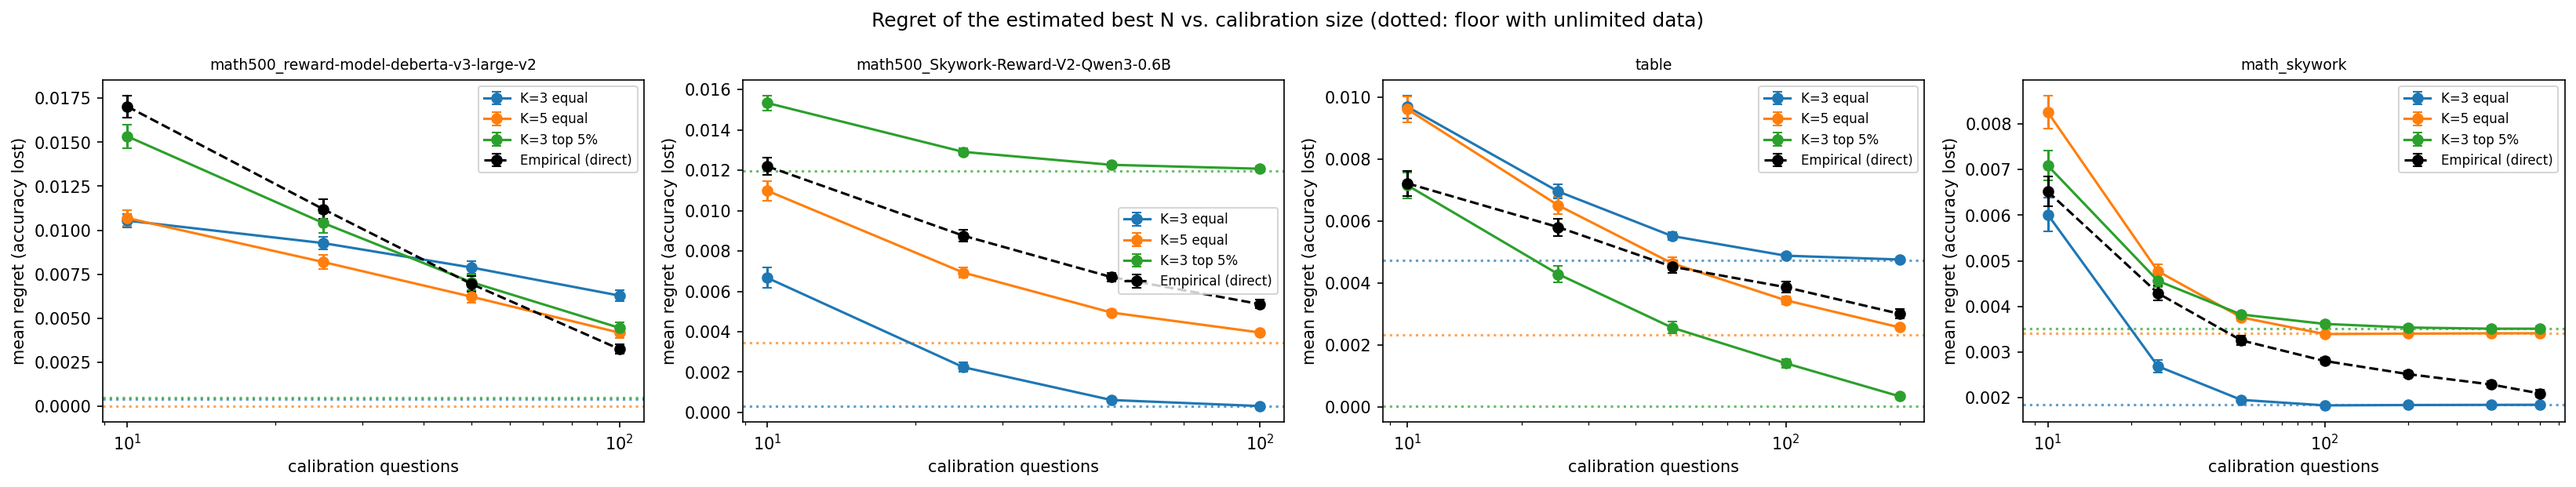
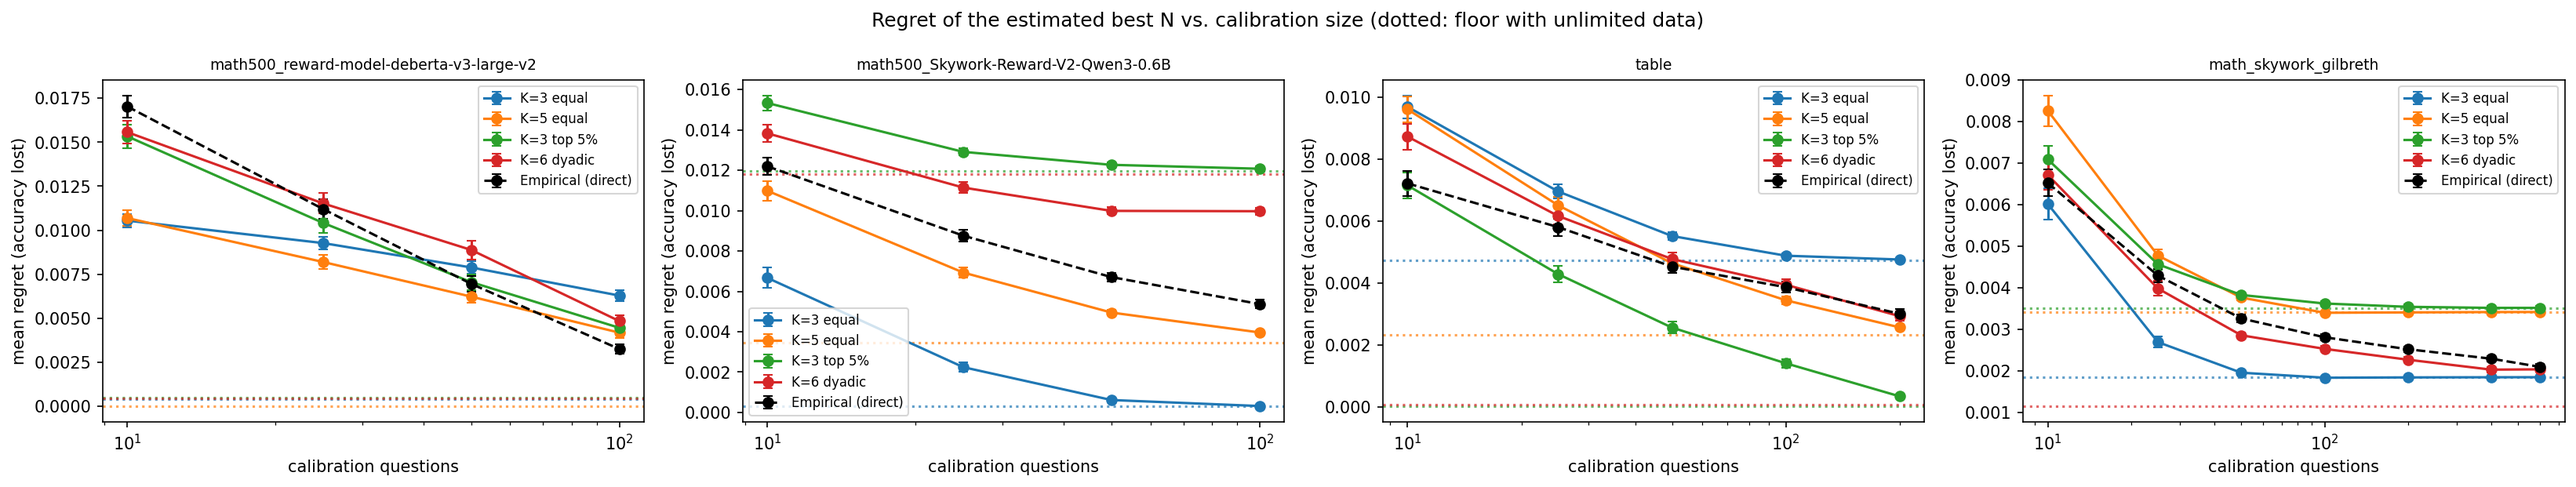
Docs: PPE pairs of Khalaf et al., coding beyond N=32, dyadic layout
PPE_RESULTS.md: MATH and MMLU-Pro + InternLM-2-1.8B and GPQA + Skywork-Llama-3.1-8B all peak at N of 7 to 13
(decline about 0.02, not significant individually); coarse equal-mass levels fail there, the dyadic layout
matches the direct empirical method. CODING_RESULTS.md: own generation of 256 solutions per problem, sandboxed
EvalPlus tests; CodeScaler curves flatten at N of 30 to 70 and fall by 0.005 to 0.015 by N=256 (not significant),
DeBERTa is uninformative on code. Calibration-sweep figure split into a MATH set and a PPE set.

diff --git a/docs/PPE_RESULTS.md b/docs/PPE_RESULTS.md
@@ -1,0 +1,67 @@
+# PPE Best-of-K: the reward-model pairs of Khalaf et al.
+
+**Question:** do the dataset / reward-model pairs that "Inference-Time Reward Hacking in Large Language Models" (Khalaf et al., NeurIPS 2025) uses show over-optimization (accuracy rises, then falls as N grows)? And how does our K-level method do on them?
+
+Code: [`score_ppe.py`](../experiments/ppe/score_ppe.py), [`calibration_sweep.py`](../experiments/real_data/calibration_sweep.py) · Data: `results/ppe_<dataset>_<scorer>.csv`, `results/ppe_<dataset>_meta.csv`
+
+## Data and scorers
+
+- Pre-generated `lmarena-ai/PPE-{MATH, MMLU-Pro, GPQA}-Best-of-K`: each has 512 rows = 512 **different** questions, 32 answers per row from ONE generator (gemma-2-9b-it, gpt-4o-mini, Llama-3-8B-Instruct or claude-3-haiku, 128 rows each), with a correctness flag. So N <= 32. Mean correctness: MATH 0.34, MMLU-Pro 0.48, GPQA 0.41.
+- Scorers: `internlm/internlm2-1_8b-reward` (InternLM-2 1.8B) and `Skywork/Skywork-Reward-Llama-3.1-8B`. The paper's text states that GPQA + Skywork-Llama-3.1 8B shows hacking; for the other pairs it gives no per-N numbers in the text (only in figures we could not read).
+- Details: Skywork-Llama is scored in fp16 with BOS added by the tokenizer (batched vs single scores: max difference 0.047, correlation 0.999998). InternLM answers longer than 8,192 tokens (about 0.1%, degenerate repetitions) keep their last 8,192 tokens.
+
+## Best-of-N curves
+
+Accuracy of the kept answer (exact, N answers drawn without replacement), averaged over the 512 questions.
+
+| Dataset + scorer | Mean score correct vs wrong | N=1 | N=2 | N=4 | N=8 | N=16 | N=32 | Best N (accuracy) | Decline after best N (95% CI) |
+|---|---|---|---|---|---|---|---|---|---|
+| **MATH + InternLM-2-1.8B** | -0.33 vs -0.70 | 0.344 | 0.373 | 0.389 | 0.392 | 0.383 | 0.369 | **7** (0.392) | 0.023 [-0.007, 0.053] |
+| **MMLU-Pro + InternLM-2-1.8B** | +0.01 vs -0.20 | 0.476 | 0.503 | 0.514 | 0.518 | 0.519 | 0.502 | **13** (0.520) | 0.019 [-0.004, 0.041] |
+| **GPQA + Skywork-Llama-3.1-8B** | +1.35 vs -2.80 | 0.406 | 0.430 | 0.444 | 0.452 | 0.448 | 0.430 | **10** (0.453) | 0.023 [-0.003, 0.049] |
+| MATH + Skywork-Llama (control) | +7.81 vs -2.54 | 0.344 | 0.410 | 0.456 | 0.480 | 0.488 | 0.492 | 32 (0.492) | none, monotone |
+| GPQA + InternLM-2-1.8B (control) | +0.28 vs +0.10 | 0.406 | 0.422 | 0.428 | 0.429 | 0.428 | 0.432 | 32 (0.432) | none, rises then flat |
+| MMLU-Pro + Skywork-Llama (control) | -3.29 vs -9.63 | 0.476 | 0.537 | 0.578 | 0.604 | 0.624 | 0.631 | 30 (0.631) | none, monotone |
+
+- **All three pairs from the paper show the rise-then-fall shape inside N <= 32**, with a peak at N of 7 to 13 and a loss of about 0.02 by N=32. The two pairs with the strong Skywork-Llama scorer on MATH and MMLU-Pro are monotone (controls).
+- **Each decline is not significant on its own** (512 questions, intervals include 0; the best N is chosen on the same data, which makes the test optimistic if anything). The consistent direction in three independent datasets is the evidence, not any single interval.
+- The loss from using N=32 instead of the best N is about 0.02 and from N=1 about 0.045: the peak matters, but sits at a small N.
+
+## Calibration sweep (K-level model vs direct empirical)
+
+![Calibration sweep on the PPE tables](ppe_sweep.png)
+
+Same procedure as [`CALIBRATION_SWEEP_RESULTS.md`](CALIBRATION_SWEEP_RESULTS.md): 80% of the questions as eval (410), 20% pool (102), up to 100 calibration questions, 1000 splits; mean regret (accuracy lost vs the real best N on the eval questions).
+
+| Table (real best N, median) | Layout | n=10 | n=25 | n=50 | n=100 | Floor |
+|---|---|---|---|---|---|---|
+| MATH + InternLM (7) | K=3 equal | 0.0226 | 0.0216 | 0.0218 | 0.0230 | 0.0232 |
+| | K=5 equal | 0.0191 | 0.0165 | 0.0158 | 0.0171 | 0.0229 |
+| | K=3 top 5% | 0.0180 | 0.0142 | 0.0117 | 0.0111 | 0.0006 |
+| | **K=6 dyadic** | 0.0163 | 0.0128 | 0.0099 | 0.0083 | 0.0006 |
+| | Empirical (direct) | 0.0158 | 0.0133 | 0.0110 | 0.0091 | |
+| MMLU-Pro + InternLM (13) | K=3 equal | 0.0220 | 0.0183 | 0.0168 | 0.0164 | 0.0191 |
+| | K=5 equal | 0.0209 | 0.0176 | 0.0161 | 0.0155 | 0.0170 |
+| | K=3 top 5% | 0.0217 | 0.0192 | 0.0172 | 0.0171 | 0.0188 |
+| | **K=6 dyadic** | 0.0190 | 0.0155 | 0.0126 | 0.0111 | 0.0008 |
+| | Empirical (direct) | 0.0169 | 0.0132 | 0.0112 | 0.0095 | |
+| GPQA + Skywork-Llama (10) | K=3 equal | 0.0252 | 0.0229 | 0.0216 | 0.0221 | 0.0230 |
+| | K=5 equal | 0.0244 | 0.0218 | 0.0214 | 0.0222 | 0.0230 |
+| | K=3 top 5% | 0.0230 | 0.0211 | 0.0182 | 0.0173 | 0.0152 |
+| | **K=6 dyadic** | 0.0193 | 0.0157 | 0.0125 | 0.0091 | 0.0008 |
+| | Empirical (direct) | 0.0184 | 0.0151 | 0.0123 | 0.0089 | |
+| MATH + Skywork-Llama, control (32) | K=3 equal | 0.0049 | 0.0011 | 0.0005 | 0.0005 | 0.0005 |
+| | K=6 dyadic | 0.0115 | 0.0071 | 0.0056 | 0.0049 | 0.0003 |
+| | Empirical (direct) | 0.0132 | 0.0094 | 0.0076 | 0.0070 | |
+
+**Reading:**
+- **Coarse equal-mass levels fail where there is a peak.** K=3 equal and K=5 equal put the top 33% / 20% of the answers in one level, but the peak lives in the top 5-10% (N* of 7 to 13 out of 32). They see a rising curve and choose N close to 32; their regret (about 0.016 to 0.023) is the same as the loss from N=32 (floor 0.017 to 0.023). The direct empirical method is clearly better than them (paired differences +0.003 to +0.014 at every size).
+- **A level layout that resolves the top tail fixes this.** The dyadic layout (bottom 50%, then 25%, 12.5%, 6.25%, 3.1%, 3.1%: one level per power of two N) has a floor of 0.0006 to 0.0008 on the three peaked tables and is on par with the empirical method: slightly better on MATH + InternLM for n >= 25 (0.0083 vs 0.0091 at n=100), slightly worse on MMLU-Pro + InternLM (0.0111 vs 0.0095) and tied on GPQA (0.0091 vs 0.0089).
+- On the monotone control the best layout is K=3 equal; dyadic and empirical are both worse than it, with dyadic better than empirical.
+- **The dyadic layout was added after seeing that coarse levels fail on these tables** (post hoc), although as a rule it is generic (levels aligned with the N values that matter). On the earlier tables it behaves similarly to the empirical method (see `CALIBRATION_SWEEP_RESULTS.md`).
+- Take-away: the K-level model is competitive with the direct empirical approach **only if the levels resolve the part of the score distribution that Best-of-N looks at**; K and the level masses are not free parameters.
+
+## Caveats
+- 512 questions per table, each question answered by one of four generators, so questions are heterogeneous; 32 answers per question limit the resolution of rank levels (the top 3% is a single answer).
+- N <= 32: the curves after the peak are short.
+- GPQA + InternLM-2-1.8B is a weak scorer here (mean score +0.28 for correct vs +0.10 for wrong answers): the curve rises a little and is flat, with no peak. It was scored but no sweep was run on it.

diff --git a/docs/CODING_RESULTS.md b/docs/CODING_RESULTS.md
@@ -1,0 +1,52 @@
+# Coding: Best-of-N beyond N = 32 (own generation, MBPP+ and HumanEval+)
+
+**Question:** the pre-generated PPE MBPP+ data (32 answers per question) showed monotone curves up to N = 32 ([`REAL_CURVES_RESULTS.md`](REAL_CURVES_RESULTS.md)). With many more solutions, does accuracy of the kept solution peak and then fall at larger N?
+
+Code: [`generate_code.py`](../experiments/coding/generate_code.py), [`evaluate_code.sh`](../experiments/coding/evaluate_code.sh), [`score_generated.py`](../experiments/coding/score_generated.py) · Data: `results/gen_{mbpp,humaneval}_{codescaler,deberta}.csv`
+
+## Method
+
+1. **Generation.** Qwen2.5-Coder-1.5B-Instruct (vLLM), **256 solutions per problem** (temperature 0.8, top-p 0.95, at most 768 tokens), EvalPlus-style prompt. MBPP+ (378 problems, 96,768 solutions) and HumanEval+ (164 problems, 41,984 solutions).
+2. **Tests.** EvalPlus (`sanitize` to extract the code, then `evaluate` with the base and the extra "plus" tests). A solution is correct if it passes both.
+3. **Sandbox.** The programs are model-written, so the whole test run is inside a `bubblewrap` sandbox: read-only file system with `/home`, `/data`, `/scratch` emptied (only the python env, the EvalPlus cache and the samples folder are bound back), no network, own process namespace, killed with the parent, plus EvalPlus' own time and memory limits per solution. The sandbox was checked first with programs that delete a file, write outside the work folder, open a socket and loop forever: none got through (the file survived, nothing was written outside, the network call and the endless loop failed).
+4. **Scoring.** CodeScaler-1.7B (gets the extracted code) and the DeBERTa reward model (gets the full reply).
+
+| | MBPP+ | HumanEval+ |
+|---|---|---|
+| Problems x solutions | 378 x 256 | 164 x 256 |
+| Mean correctness (pass@1) | 0.565 | 0.613 |
+| pass@100 / pass@256 | 0.859 / 0.878 | 0.933 / 0.951 |
+| Problems no solution solves / all solutions solve | 46 / 32 | 8 / 24 |
+
+## Results: accuracy of the kept solution
+
+Exact curves (N solutions drawn without replacement from the 256), averaged over problems; "rank profile" = accuracy of the solution with the highest score, of those ranked 2-4, 5-16 and 17-64 (a top-ranked answer that is worse than the next ones is the signature of over-optimization).
+
+| Table | N=1 | 2 | 4 | 8 | 16 | 32 | 64 | 128 | 256 | Best N (acc) | Rank profile: top-1 / 2-4 / 5-16 / 17-64 |
+|---|---|---|---|---|---|---|---|---|---|---|---|
+| MBPP+ + CodeScaler | 0.565 | 0.619 | 0.649 | 0.667 | 0.678 | 0.684 | 0.686 | 0.685 | 0.681 | 71 (0.686) | 0.681 / 0.689 / 0.681 / 0.655 |
+| HumanEval+ + CodeScaler | 0.613 | 0.668 | 0.699 | 0.718 | 0.731 | 0.739 | 0.740 | 0.731 | 0.726 | 49 (0.740) | 0.726 / 0.744 / 0.735 / 0.704 |
+| MBPP+ + DeBERTa | 0.565 | 0.567 | 0.564 | 0.559 | 0.555 | 0.552 | 0.551 | 0.549 | 0.548 | 2 (0.567) | 0.548 / 0.553 / 0.553 / 0.566 |
+| HumanEval+ + DeBERTa | 0.613 | 0.615 | 0.613 | 0.613 | 0.614 | 0.615 | 0.612 | 0.606 | 0.604 | 2 (0.615) | 0.604 / 0.612 / 0.623 / 0.607 |
+
+Decline tests (bootstrap over problems, 95% interval):
+
+| Table | After the best N | After N=32 (chosen in advance) |
+|---|---|---|
+| MBPP+ + CodeScaler | 0.0052 [-0.012, 0.024] | 0.0027 [-0.020, 0.026] |
+| HumanEval+ + CodeScaler | 0.0148 [-0.013, 0.043] | 0.0133 [-0.019, 0.047] |
+| MBPP+ + DeBERTa | 0.0194 [-0.010, 0.050] | 0.0045 [-0.022, 0.031] |
+| HumanEval+ + DeBERTa | 0.0115 [-0.040, 0.063] | n.s. |
+
+## Findings
+
+- **With CodeScaler the curve rises until N of about 30, flattens, and drifts down very slightly after N of 50 to 70** (MBPP+ peak 0.686 at N=71, 0.681 at N=256; HumanEval+ peak 0.740 at N=49, 0.726 at N=256). The declines (0.005 and 0.015) are **not statistically significant**; the direction agrees in both datasets.
+- **The rank profile points the same way:** the top-ranked solution is slightly less accurate than ranks 2-4 in both datasets (MBPP+ 0.681 vs 0.689, HumanEval+ 0.726 vs 0.744), but again within noise.
+- So with a strong code reward model there is, at most, a weak, flat peak: over-optimization on code is very mild up to N=256, in contrast to MATH with the weak DeBERTa scorer (N*=2, loss 0.049) and to the PPE pairs of Khalaf et al. (peak at N of 7 to 13, loss about 0.02 by N=32).
+- **DeBERTa is uninformative on code** (HumanEval+ mean score: correct -2.61 vs wrong -2.46; MBPP+: -0.37 vs -0.62): the accuracy does not rise at all (about 0.565 and 0.613 at every N), and the top-scored solution is slightly worse than a random one (MBPP+ 0.548 vs 0.565). This is not the "weak but informative scorer" regime in which a peak appears.
+- Consistent with the PPE MBPP+ feasibility run, which was monotone up to N=32 (its accuracy at N=32 is higher, 0.874, only because PPE kept problems with mixed outcomes).
+
+## Caveats
+- One small generator (1.5B), one strong code scorer; 164 and 378 problems, so the declines cannot be told apart from zero.
+- Test-based correctness uses EvalPlus' base and plus tests only; a few problems have no correct solution (46 and 8).
+- Results of generation and scoring were produced on different machines (vLLM 0.11), sampling settings as stated above.

diff --git a/docs/EXPERIMENTS.md b/docs/EXPERIMENTS.md
@@ -12,6 +12,8 @@ Each experiment has its code in `experiments/` (or the repo root for the data pi
 | 5 | Confirmation on the MATH held-out set (3,000 of the 4,500 test questions not in MATH-500, Skywork scorer; run independently by us and by Manish, both agree) | done: pre-registered N=64 vs N=256 test not significant (the MATH-500 peak does not replicate); sweep on it done (K=3 equal beats the empirical method at every size, small absolute gaps) | `initialize_experiment.py` (`DATASET=math`), `jobs/` | [REAL_CURVES_RESULTS.md](REAL_CURVES_RESULTS.md), [CALIBRATION_SWEEP_RESULTS.md](CALIBRATION_SWEEP_RESULTS.md) |
 | 6 | Synthetic simulation for K = 3, 5, 10, 20 levels (effect of K and calibration size on regret; coarse-graining of a K=20 world) | done | `experiments/synthetic/k_level_simulation.py` | [K_LEVEL_SIMULATION_RESULTS.md](K_LEVEL_SIMULATION_RESULTS.md) |
 | 7 | Coding feasibility: MBPP+ (PPE pre-generated, 32 solutions per row), CodeScaler-1.7B and DeBERTa scorers | done (feasibility only): monotone curves, no peak, so no sweep | `experiments/coding/score_ppe_mbpp.py` | [REAL_CURVES_RESULTS.md](REAL_CURVES_RESULTS.md) |
+| 8 | Reward-model pairs of Khalaf et al. on PPE Best-of-K (MATH and MMLU-Pro + InternLM-2-1.8B, GPQA + Skywork-Llama-3.1-8B, plus controls) | done: all three pairs peak at N of 7 to 13 (decline about 0.02, not significant individually); sweep: coarse levels fail, a dyadic layout matches the empirical method | `experiments/ppe/score_ppe.py` | [PPE_RESULTS.md](PPE_RESULTS.md) |
+| 9 | Coding with N up to 256: own generation (Qwen2.5-Coder-1.5B, 256 solutions per problem) on HumanEval+ and MBPP+, EvalPlus tests in a sandbox, CodeScaler and DeBERTa scorers | done: with CodeScaler the curve flattens at N of 30 to 70 and falls by 0.005 to 0.015 by N=256 (not significant); DeBERTa is uninformative on code | `experiments/coding/{generate_code,evaluate_code,score_generated}` | [CODING_RESULTS.md](CODING_RESULTS.md) |
 
 ## Next
 

diff --git a/docs/CALIBRATION_SWEEP_RESULTS.md b/docs/CALIBRATION_SWEEP_RESULTS.md
@@ -99,6 +99,19 @@ Held-out MATH (paired difference, layout minus empirical; 10 / 25 / 50 / 100 / 2
 - **The outcome depends on the layout and the table**, not uniformly in our favour: on Skywork-MATH-500 K=3 and K=5 equal win at every size while K=3 top 5% loses (its floor is 0.012); on GSM8K (monotone curve) the model with K=3 equal loses at every size, K=5 equal is roughly tied, and K=3 top 5% wins.
 - Honest summary: the model is a **small-data advantage**, which matches the motivation of the project, but it is not a free win; a poorly chosen layout (floor too high) loses to the plain empirical method.
 
+## A layout that resolves the top tail: K=6 dyadic
+
+Added after the PPE tables ([`PPE_RESULTS.md`](PPE_RESULTS.md)), where coarse equal-mass levels missed a peak at the top 5-10% of the scores. Level masses halve towards the top (bottom 50%, 25%, 12.5%, 6.25%, 3.1%, 3.1%), one level per power of two N. Mean regret, 10 / 25 / 50 / 100 calibration questions (empirical method in brackets):
+
+| Table | K=6 dyadic | Empirical | Floor of dyadic |
+|---|---|---|---|
+| MATH-500 + DeBERTa (N*=2) | 0.0156 / 0.0115 / 0.0089 / 0.0048 | 0.0170 / 0.0112 / 0.0070 / 0.0033 | 0.0004 |
+| MATH-500 + Skywork (N*=70) | 0.0138 / 0.0111 / 0.0100 / 0.0100 | 0.0122 / 0.0088 / 0.0067 / 0.0054 | 0.0118 |
+| GSM8K + Skywork (N*=256) | 0.0087 / 0.0062 / 0.0048 / 0.0039 | 0.0072 / 0.0058 / 0.0045 / 0.0039 | 0.0001 |
+| MATH held-out (ours) + Skywork (N*=29) | 0.0067 / 0.0040 / 0.0029 / 0.0025 | 0.0065 / 0.0043 / 0.0033 / 0.0028 | 0.0011 |
+
+On these tables the dyadic layout behaves about like the empirical method (better with few calibration questions in some, slightly worse with more on MATH-500 + Skywork, whose floor is 0.0118). Its advantage is on tables with a peak in the top tail, where equal-mass layouts fail.
+
 ## Findings
 
 - **Regret decreases with calibration size in every setting**, qualitatively matching the synthetic simulation.

diff --git a/results/README.md b/results/README.md
@@ -12,6 +12,8 @@ does not matter. Every math table has 256 answers per question.
 | `math_skywork.csv` | Held-out MATH, 3,000 questions, Skywork scorer; **Manish's run** (Scholar) | README results table, `proof/verify_proof.py` |
 | `math_skywork_gilbreth.csv` | The **same 3,000 questions, an independent second run** (Gilbreth, porsche, ferrari) | `docs/REAL_CURVES_RESULTS.md`, `docs/CALIBRATION_SWEEP_RESULTS.md` |
 | `mbpp_plus_*.csv`, `mbpp_plus_meta.csv` | Coding feasibility: PPE MBPP+ (32 answers per row), CodeScaler and DeBERTa scorers; meta = row to task and generator | `docs/REAL_CURVES_RESULTS.md` |
+| `ppe_<dataset>_<scorer>.csv`, `ppe_<dataset>_meta.csv` | PPE Best-of-K MATH, MMLU-Pro, GPQA (512 questions x 32 answers) with InternLM-2-1.8B and Skywork-Reward-Llama-3.1-8B; meta = generator of each row | `docs/PPE_RESULTS.md` |
+| `gen_{mbpp,humaneval}_{codescaler,deberta}.csv` | Our own generation: 256 solutions per MBPP+ / HumanEval+ problem (Qwen2.5-Coder-1.5B), correct = passes EvalPlus base and plus tests | `docs/CODING_RESULTS.md` |
 | `default64_table.csv`, `weak_*64_table.csv`, `table256.csv` | Early 100-question explorations | `proof/verify_proof.py` only |
 | `*_accuracy_curve.png` | Plots written by `run_experiment.py` | none (derived) |
 

diff --git a/docs/REAL_CURVES_RESULTS.md b/docs/REAL_CURVES_RESULTS.md
@@ -65,4 +65,5 @@ CodeScaler-1.7B (code reward model, gets the last code block) and the DeBERTa re
 - **Selection caveat:** every one of the 507 rows contains both passing and failing solutions (pass@32 = 1.0, no row with all or none passing), i.e. PPE kept tasks with mixed outcomes. Accuracies (0.56 to 0.87) are therefore not MBPP+ accuracies and the gain from Best-of-N is inflated.
 - Conclusion: with N <= 32 this dataset behaves like a monotone control (similar to GSM8K), not like MATH-500 + DeBERTa. It is not a setting where estimating the best N is interesting (best N = N_max, regret is trivial), so no calibration sweep was run on it. A peak, if any, would need larger N (own generation, e.g. Qwen2.5-Coder-1.5B-Instruct with 256 samples) or a scorer that is easier to fool.
 - Any calibration/eval split on this data must group by `task_id` (several rows share a task).
+- With our own generation of 256 solutions per problem (so N up to 256), see [`CODING_RESULTS.md`](CODING_RESULTS.md): a flat curve with at most a very weak, not significant decline for CodeScaler.
 
